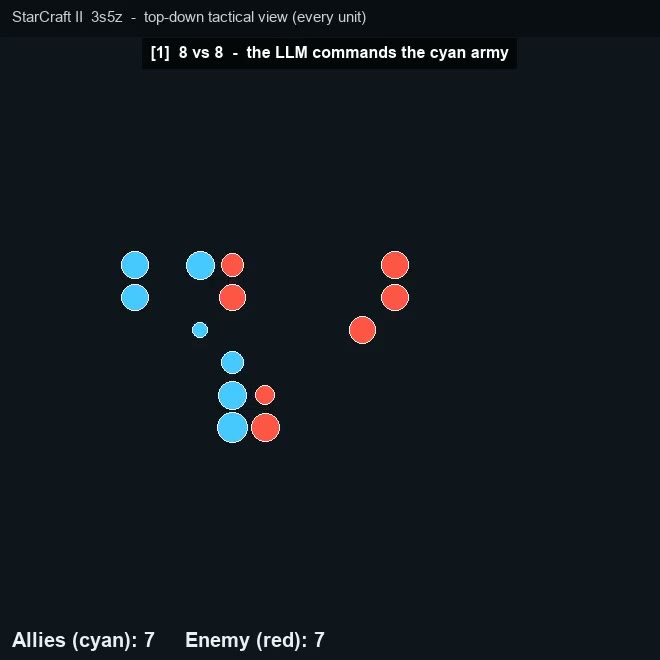
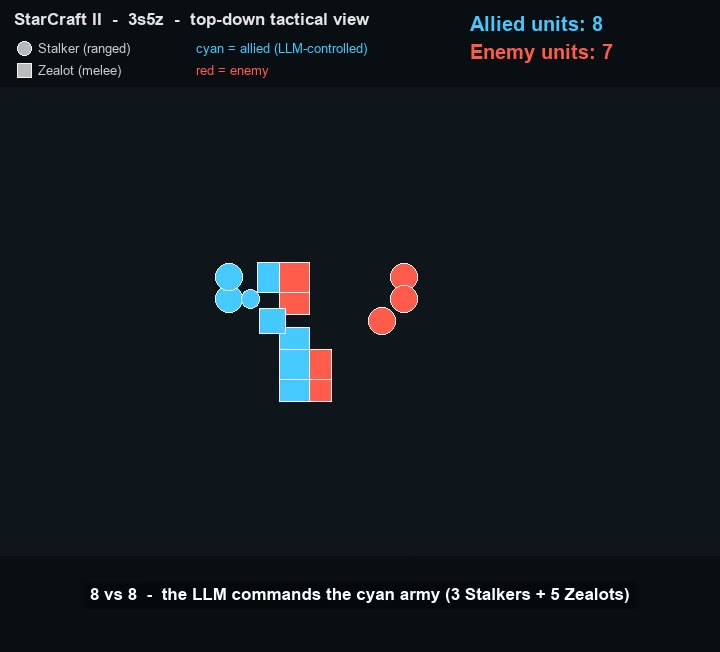
SC2 report v2: restructure + improved demo (addresses review feedback)
Demo: top-down render now annotates unit TYPES (Stalker=circle/ranged, Zealot=square/melee) with a
legend; captions sit in a reserved bottom band (never over units); "Allied/Enemy units" wording; the
end-of-episode neutral (gray) frames are dropped; a title screen explains the setup. Real game: link
the actual .SC2Replay (open in SC2 to watch the 3D battle).

Report restructure (less prose, more structure): bullet TL;DR, a pipeline flowchart, jargon defined
(harness, command vocabulary/DSL, Blink/Charge/micro), and a decision walkthrough pairing each scene
thumbnail with the model's reasoning + the real command (from the same game). Results/methods as tables
and bullets. English-polished throughout.

diff --git a/sc2.html b/sc2.html
@@ -5,139 +5,143 @@
 <meta name="viewport" content="width=device-width, initial-scale=1">
 <title>World Commander — StarCraft II testbed report</title>
 <style>
-  :root { --fg:#1a1a1a; --mut:#666; --acc:#2b6cb0; --good:#2f855a; --bad:#c53030; --bg:#fff; --box:#f7f8fa; --line:#e2e8f0; }
-  body { font-family: -apple-system, Segoe UI, Roboto, Helvetica, Arial, sans-serif; color:var(--fg);
-         max-width: 860px; margin: 0 auto; padding: 28px 20px 80px; line-height: 1.55; background:var(--bg); }
-  h1 { font-size: 1.7rem; margin: 0 0 4px; }
-  h2 { font-size: 1.25rem; margin: 2.2em 0 .4em; border-bottom: 2px solid var(--line); padding-bottom: 4px; }
-  h3 { font-size: 1.05rem; margin: 1.4em 0 .3em; }
-  .sub { color: var(--mut); font-size: .92rem; margin: 0 0 18px; }
-  .tldr { background: var(--box); border:1px solid var(--line); border-left:4px solid var(--acc);
-          border-radius: 8px; padding: 14px 18px; margin: 18px 0; }
-  .tldr b { color: var(--acc); }
-  table { border-collapse: collapse; width: 100%; margin: 12px 0; font-size: .92rem; }
-  th, td { border: 1px solid var(--line); padding: 6px 10px; text-align: left; }
-  th { background: var(--box); }
-  code { background: var(--box); padding: 1px 5px; border-radius: 4px; font-size: .9em; }
-  .good { color: var(--good); font-weight: 600; } .bad { color: var(--bad); font-weight: 600; }
-  video { width: 100%; border:1px solid var(--line); border-radius: 8px; background:#000; }
-  .cap { color: var(--mut); font-size: .87rem; margin: 6px 2px 0; }
-  .trace { display:grid; grid-template-columns: 1fr 1fr; gap: 14px; margin: 14px 0; }
-  .trace > div { background: var(--box); border:1px solid var(--line); border-radius: 8px; padding: 12px 14px; }
-  .trace h4 { margin:.1em 0 .5em; font-size:.95rem; }
-  .nl { font-style: italic; color:#333; } .act { font-family: ui-monospace, Menlo, Consolas, monospace; font-size:.85rem; color:var(--acc); }
-  @media (max-width:680px){ .trace { grid-template-columns: 1fr; } }
-  .foot { color: var(--mut); font-size: .85rem; margin-top: 40px; border-top:1px solid var(--line); padding-top: 14px; }
+  :root{--fg:#1a1a1a;--mut:#666;--acc:#2b6cb0;--good:#2f855a;--bad:#c53030;--box:#f7f8fa;--line:#e2e8f0;}
+  body{font-family:-apple-system,Segoe UI,Roboto,Helvetica,Arial,sans-serif;color:var(--fg);max-width:880px;
+       margin:0 auto;padding:28px 20px 90px;line-height:1.5;}
+  h1{font-size:1.7rem;margin:0 0 4px;} h2{font-size:1.25rem;margin:2em 0 .4em;border-bottom:2px solid var(--line);padding-bottom:4px;}
+  h3{font-size:1.02rem;margin:1.2em 0 .3em;} .sub{color:var(--mut);font-size:.9rem;margin:0 0 16px;}
+  ul{margin:.4em 0 .8em;padding-left:1.2em;} li{margin:.25em 0;}
+  code{background:var(--box);padding:1px 5px;border-radius:4px;font-size:.88em;}
+  .tldr{background:var(--box);border:1px solid var(--line);border-left:4px solid var(--acc);border-radius:8px;padding:12px 18px;margin:16px 0;}
+  table{border-collapse:collapse;width:100%;margin:10px 0;font-size:.9rem;} th,td{border:1px solid var(--line);padding:6px 10px;text-align:left;} th{background:var(--box);}
+  .good{color:var(--good);font-weight:600;} .bad{color:var(--bad);font-weight:600;}
+  video{width:100%;border:1px solid var(--line);border-radius:8px;background:#000;}
+  .cap{color:var(--mut);font-size:.86rem;margin:6px 2px 0;}
+  /* flowchart */
+  .flow{display:flex;align-items:stretch;gap:6px;flex-wrap:wrap;margin:14px 0;}
+  .node{flex:1 1 130px;background:var(--box);border:1px solid var(--line);border-radius:8px;padding:10px;text-align:center;font-weight:600;font-size:.92rem;}
+  .node small{display:block;font-weight:400;color:var(--mut);margin-top:3px;font-size:.8rem;}
+  .arr{display:flex;flex-direction:column;justify-content:center;align-items:center;color:var(--acc);font-weight:700;font-size:1.2rem;min-width:64px;text-align:center;}
+  .arr small{font-weight:400;color:var(--mut);font-size:.72rem;line-height:1.2;}
+  /* walkthrough */
+  .wrow{display:flex;gap:14px;align-items:flex-start;border:1px solid var(--line);border-radius:8px;padding:12px;margin:10px 0;background:#fff;}
+  .wrow img{width:240px;border-radius:6px;border:1px solid var(--line);flex:0 0 auto;}
+  .wrow .nl{font-style:italic;color:#333;margin:.2em 0;} .wrow .act{font-family:ui-monospace,Consolas,monospace;font-size:.82rem;color:var(--acc);}
+  @media(max-width:620px){.wrow{flex-direction:column;} .wrow img{width:100%;}}
+  .foot{color:var(--mut);font-size:.84rem;margin-top:36px;border-top:1px solid var(--line);padding-top:12px;}
 </style>
 </head>
 <body>
 
 <h1>World Commander — StarCraft II testbed</h1>
-<p class="sub"><b>Updated:</b> 2026-06-21 · <b>Machine:</b> yubopc (RTX 4060, 8 GB) ·
-<b>Game:</b> SC2 5.0.15 · <b>Harness:</b> LLM-PySC2 (patched) ·
-<b>Model:</b> Qwen3-4B-AWQ via vLLM (WSL2, <code>localhost:8001</code>) · members-only</p>
+<p class="sub"><b>Updated:</b> 2026-06-21 · <b>Machine:</b> yubopc (RTX 4060, 8 GB) · <b>Game:</b> SC2 5.0.15 ·
+<b>Harness:</b> LLM-PySC2 (patched) · <b>Model:</b> Qwen3-4B-AWQ via vLLM · members-only</p>
 
 <div class="tldr">
-<b>TL;DR.</b> A small LLM (Qwen3-4B) issues natural-language battle commands to StarCraft II units
-through LLM-PySC2. The key result, from a controlled study on the balanced <code>3s5z</code>
-matchup: the 4B is <b>capable enough to roughly match the game's built-in auto-attack
-(≈77% vs ≈67% win rate, +10 pp, <i>not</i> statistically significant)</b> — but it is
-<b>~25× too slow to act in real time</b> (~27 s per decision). On this testbed the binding
-constraint is <b>latency, not capability</b>.
-</div>
-
-<h2>1 · Watch a game — and the language→game link</h2>
-<video controls preload="metadata" poster="sc2_demo_poster.jpg">
-  <source src="sc2_demo.mp4" type="video/mp4">
-  Your browser can't play embedded video — <a href="sc2_demo.mp4">download the clip</a>.
-</video>
-<p class="cap">A complete 3s5z game, rendered top-down so <b>every unit is visible</b> — allies in
-cyan, enemy in red, each sized by current health, the live count falling as units die. Captions
-name each phase and show the <b>actual LLM command</b> behind it (focus-firing the enemy Stalkers;
-Blink and Charge micro). The model commands the cyan army and, in this game, is out-microed and
-loses. Sped up — each real decision takes <span class="bad">~27&nbsp;s</span>.</p>
-
-<h3>What actually happens between a command and the game</h3>
-<p>Each decision, the harness sends the LLM the full game state (every unit's position, health,
-type — ~2.4–5.7 K tokens of text). The model replies with a short <b>natural-language analysis</b>
-plus <b>structured actions</b> in a small command language (<code>&lt;Attack_Unit(tag)&gt;</code>,
-<code>&lt;Move_Screen([x,y])&gt;</code>, <code>&lt;Charge()&gt;</code>, <code>&lt;Blink(...)&gt;</code>).
-LLM-PySC2 parses those into pysc2 actions (select unit → issue ability → click target on screen)
-and steps the game. Two real decisions from the clip above:</p>
-
-<div class="trace">
-  <div>
-    <h4>Decision 1</h4>
-    <p class="nl">"The closest enemy Zealots are at distances 1–2… focus on attacking the closest
-    enemy Zealots first… Stalkers can use their Blink ability to reposition; Zealots use Charge to
-    close the distance."</p>
-    <p class="act">Team&nbsp;Zealot-1: &lt;Attack_Unit(0x100340001)&gt; &lt;Charge()&gt;</p>
-  </div>
-  <div>
-    <h4>Decision 2 — concentrate fire</h4>
-    <p class="nl">"The closest enemy Zealot (Tag 0x100340001) is at distance 1, an ideal target…
-    focus on the closest enemy Zealot first."</p>
-    <p class="act">Zealot-1 / Zealot-2 / Zealot-3 → all &lt;Attack_Unit(0x100340001)&gt;</p>
-  </div>
-</div>
-<p class="cap">The reasoning is sensible RTS micro — focus-fire the nearest/weakest enemy, use
-abilities — and it maps cleanly onto game actions. The catch (below) is that "attack the
-nearest" is largely what the units already do on their own.</p>
-
-<h2>2 · Capability — does the LLM actually help?</h2>
-<p>SC2 units <b>auto-attack</b> on their own, so a raw win doesn't prove the model did anything.
-We control with a no-LLM baseline (<code>WCB_SC2_MAX_QUERIES=0</code>) and pool the high-n runs by
-condition:</p>
-<table>
-<tr><th>condition</th><th>win-rate</th><th>n</th></tr>
-<tr><td>LLM acts (model in the loop)</td><td class="good">49/64 ≈ 77%</td><td>64</td></tr>
-<tr><td>No effective LLM (auto-attack / dropped)</td><td>32/48 ≈ 67%</td><td>48</td></tr>
-<tr><td colspan="3" style="color:#666;font-size:.88rem">Difference +10 pp, two-proportion p≈0.25 — <b>not significant</b>; the gap <i>shrank</i> as n grew (+22→+17→+10 pp).</td></tr>
-</table>
-<p>And win-rate tracks the <b>force matchup</b>, not the model:</p>
-<table>
-<tr><th>matchup</th><th>auto-attack</th><th>with LLM</th><th>read</th></tr>
-<tr><td>1c3s5z (overwhelming)</td><td>100%</td><td>100%</td><td>auto-wins; LLM irrelevant</td></tr>
-<tr><td><b>3s5z (balanced)</b></td><td>~67%</td><td>~77%</td><td>LLM helps modestly (n.s.)</td></tr>
-<tr><td>2s3z / 3s_vs_3z (unwinnable)</td><td>0%</td><td>0%</td><td>LLM neutral</td></tr>
-</table>
-<p><b>Why the effect is small (from reading the commands):</b> the 4B's micro is reasonable but
-<b>largely redundant with auto-attack</b> — it focus-fires the nearest/weakest enemy, which is
-~what the units already do. So it mostly commands what would happen anyway. It's redundancy, not
-incompetence; a bigger edge needs decisions that <i>diverge</i> from the default (true kiting,
-cross-team focus) more reliably than this model produces.</p>
-
-<h2>3 · The clock — latency is the binding constraint</h2>
-<p>Per-decision cost on 3s5z: <b>~27 s/decision</b> (range 25.5–30.1 s), <b>prefill-dominated</b>
-— the prompt is 2.4–5.7 K input tokens (the full unit-by-unit observation), output only
-~150–315 tokens. So latency scales with the <i>observation size</i>, not the generation.</p>
-<p>At ~27 s/decision the 4B is <b>~25× too slow</b> for second-scale RTS control (≈5× too slow even
-versus a generous 5 s deadline). LLM-PySC2's default deadline is <i>soft</i> — a late reply is
-applied anyway — so win-rate is deadline-invariant. We added a true real-time
-<b>drop-late</b> clock (<code>WCB_SC2_DROP_LATE=1</code>): a reply that misses its deadline is
-<b>discarded</b>. Validated at a 10 s deadline: <b>13/13 late replies dropped, attack actions
-45→1</b>, and the agent reverts to the auto-attack baseline. That is the program's thesis made
-concrete: <i>under a real clock, a too-slow model contributes nothing.</i></p>
-<p><b>The lever for real-time viability</b> is therefore not just a smaller model — it's
-<b>shrinking the observation prompt</b> (prefill is the cost) and <b>KV-cache reuse across ticks</b>.
-That is the efficiency sweep the program scopes next.</p>
-
-<h2>4 · Methods, reliability &amp; caveats</h2>
+<b>TL;DR</b>
 <ul>
-<li><b>Auto-attack confound</b> controlled with no-LLM runs; win/loss read from the
-<code>obs-list-episode&lt;N&gt;-{win,lose,tie}.pkl</code> suffix.</li>
-<li><b>Camera-calibration bootstrap</b> was run-fragile (some runs never queried the LLM). Fixed
-for reliability with a <code>world_range</code> guard + an env-gated force-proceed cap
-(<code>WCB_SC2_CALIB_CAP</code>); ~75% of runs now calibrate cleanly. A full "every run converges"
-fix is in progress.</li>
-<li><b>Single model</b> (4B); 8 GB GPU caps model size. Binomial CIs are wide; the pooled headline
-uses n≈48–64/side.</li>
-<li>Full data, code patch, and the evolving analysis trail: <code>results/sc2/sweep_2s3z_4B.md</code>
-in the repo.</li>
+<li><b>Capability —</b> on the balanced <code>3s5z</code> matchup the 4B only <b>matches the game's
+built-in auto-attack</b> (≈77% vs ≈67% win rate, +10 pp, <i>not</i> significant).</li>
+<li><b>Clock —</b> it takes <b>~27 s per decision</b>, about <b>25× too slow</b> to act in real time.
+The binding constraint is <b>latency, not capability</b>.</li>
+<li><b>Contribution —</b> a validated <b>drop-late</b> primitive (a true real-time clock that discards
+late decisions) — the reusable piece the program needs.</li>
+</ul>
+</div>
+
+<h2>1 · How it works</h2>
+<div class="flow">
+  <div class="node">StarCraft II<small>live game</small></div>
+  <div class="arr">→<small>harness:<br>game → text<br>(~3k tokens)</small></div>
+  <div class="node">LLM · Qwen3-4B<small>analysis (words)<br>+ commands</small></div>
+  <div class="arr">→<small>harness:<br>parse → clicks</small></div>
+  <div class="node">StarCraft II<small>action runs;<br>new state</small></div>
+</div>
+<ul>
+<li><b>Harness</b> = <b>LLM-PySC2</b>: the software between model and game. It turns the live game into a
+text description, sends it to the model, parses the reply back into in-game clicks, and advances the game.</li>
+<li><b>Command vocabulary</b> (a small fixed "language" the model writes): <code>&lt;Attack_Unit(tag)&gt;</code>,
+<code>&lt;Move_Screen([x,y])&gt;</code>, <code>&lt;Stop()&gt;</code>, and two unit abilities —
+<code>&lt;Blink([x,y])&gt;</code> (a <b>Stalker</b>'s short teleport, to reposition or escape) and
+<code>&lt;Charge()&gt;</code> (a <b>Zealot</b>'s rush to close in).</li>
+<li><b>The two unit types</b> in 3s5z: <b>Stalkers</b> (ranged) and <b>Zealots</b> (melee), 3 + 5 per side.</li>
 </ul>
 
-<p class="foot">World Commander Bench · StarCraft II testbed · generated 2026-06-21 on yubopc.
-Private GitLab Pages (project members only).</p>
+<h2>2 · Watch a game</h2>
+<video controls preload="metadata" poster="sc2_demo_poster.jpg">
+  <source src="sc2_demo.mp4" type="video/mp4">
+  Your browser can't play the video — <a href="sc2_demo.mp4">download it</a>.
+</video>
+<p class="cap">Top-down view so <b>every unit is visible</b> — allies cyan, enemy red; circles are
+Stalkers (ranged), squares are Zealots (melee); size tracks health, and units vanish as they die.
+Captions (in the lower band, never over the units) name each phase and show the real LLM command.
+Sped up — each real decision takes ~27 s. In this game the 4B is out-fought and loses.</p>
+<p>▶ <b>See the real 3D game:</b> <a href="sc2_demo_game.SC2Replay">download this StarCraft II replay</a>
+and open it in the game to watch the actual battle (the top-down view above is a clarity render of the
+same kind of game).</p>
 
+<h2>3 · Language → action: a decision walkthrough</h2>
+<p>Four moments from the game above. Each shows the <b>scene</b>, the model's <b>reasoning in words</b>,
+and the <b>command</b> it produced (focus-firing, then Blink/Charge micro as the fight turns).</p>
+
+<div class="wrow"><img src="scene1.jpg" alt="scene 1">
+  <div><b>① Opening (8 v 8)</b>
+  <p class="nl">"The enemy Zealots and Stalkers are close and our Zealots are low on health — attack the nearest enemy and reposition."</p>
+  <p class="act">&lt;Attack_Unit(0x..)&gt;  &lt;Move_Screen([82,64])&gt;</p></div></div>
+
+<div class="wrow"><img src="scene2.jpg" alt="scene 2">
+  <div><b>② Focus fire</b>
+  <p class="nl">"An enemy Zealot is at 11% health — a high-priority target; concentrate the team's fire to finish it."</p>
+  <p class="act">&lt;Stop()&gt;  &lt;Attack_Unit(0x..)&gt;  &lt;Attack_Unit(0x..)&gt;</p></div></div>
+
+<div class="wrow"><img src="scene3.jpg" alt="scene 3">
+  <div><b>③ Trading in the melee</b>
+  <p class="nl">"Facing the enemy Stalkers (ranged, armored) — attack, and Blink to a safer position."</p>
+  <p class="act">&lt;Attack_Unit(0x..)&gt;  &lt;Blink(0x.., [119,40])&gt;</p></div></div>
+
+<div class="wrow"><img src="scene4.jpg" alt="scene 4">
+  <div><b>④ Losing — last unit retreats</b>
+  <p class="nl">"Our last Stalker is at 3% health and critically damaged — Blink away to survive."</p>
+  <p class="act">&lt;Blink(0x.., [81,45])&gt;  &lt;Move_Screen([81,45])&gt;</p></div></div>
+
+<p class="cap">The reasoning is sensible RTS micro — focus the nearest/weakest enemy, use abilities — but
+"attack the nearest" is largely what units already do on their own, which is why the model's edge over
+auto-attack is small (Section 4).</p>
+
+<h2>4 · Results</h2>
+<h3>Capability — does the LLM beat the game's own AI?</h3>
+<p>SC2 units auto-attack on their own, so a win alone proves nothing. Controlling against a no-LLM
+baseline and pooling the high-n runs:</p>
+<table>
+<tr><th>condition</th><th>win rate</th><th>n</th></tr>
+<tr><td>LLM in the loop</td><td class="good">49/64 ≈ 77%</td><td>64</td></tr>
+<tr><td>no effective LLM (auto-attack)</td><td>32/48 ≈ 67%</td><td>48</td></tr>
+</table>
+<ul>
+<li>Difference <b>+10 pp, p ≈ 0.25 — not significant</b>; the gap <i>shrank</i> as n grew (+22 → +17 → +10).</li>
+<li>Win rate tracks the <b>matchup</b>: overwhelming maps auto-win, unwinnable maps auto-lose, and only the
+balanced 3s5z leaves any room — where the 4B adds a small, noisy lift.</li>
+</ul>
+<h3>The clock — latency is the wall</h3>
+<ul>
+<li><b>~27 s / decision</b> (range 25–30 s), <b>prefill-dominated</b> — the prompt is 2.4–5.7 k tokens
+(the full unit-by-unit state); output is only ~150–315 tokens.</li>
+<li>So the 4B is <b>~25× too slow</b> for second-scale control. The lever for real-time is a
+<b>shorter prompt + KV-cache reuse</b>, not just a smaller model.</li>
+<li><b>drop-late</b> (our real-time clock) discards a decision that misses its deadline. Validated: at a
+10 s deadline, 13/13 late replies dropped, attacks fell 45 → 1, and the agent reverts to auto-attack.</li>
+</ul>
+
+<h2>5 · Methods &amp; caveats</h2>
+<ul>
+<li>Win/loss read from the <code>obs-list-episode&lt;N&gt;-{win,lose,tie}.pkl</code> suffix; auto-attack
+confound controlled with no-LLM runs (<code>WCB_SC2_MAX_QUERIES=0</code>).</li>
+<li>The demo is rendered top-down from per-step unit data (<code>scripts/render_sc2_demo.py</code>), so it
+is camera-independent — every unit is always shown.</li>
+<li>Single model (4B); 8 GB GPU caps size. Binomial CIs are wide (pooled n ≈ 48–64/side).</li>
+<li>Full data, code patch, and the analysis trail: <code>results/sc2/sweep_2s3z_4B.md</code> in the repo.</li>
+</ul>
+
+<p class="foot">World Commander Bench · StarCraft II testbed · 2026-06-21 · private GitLab Pages (members only).</p>
 </body>
 </html>